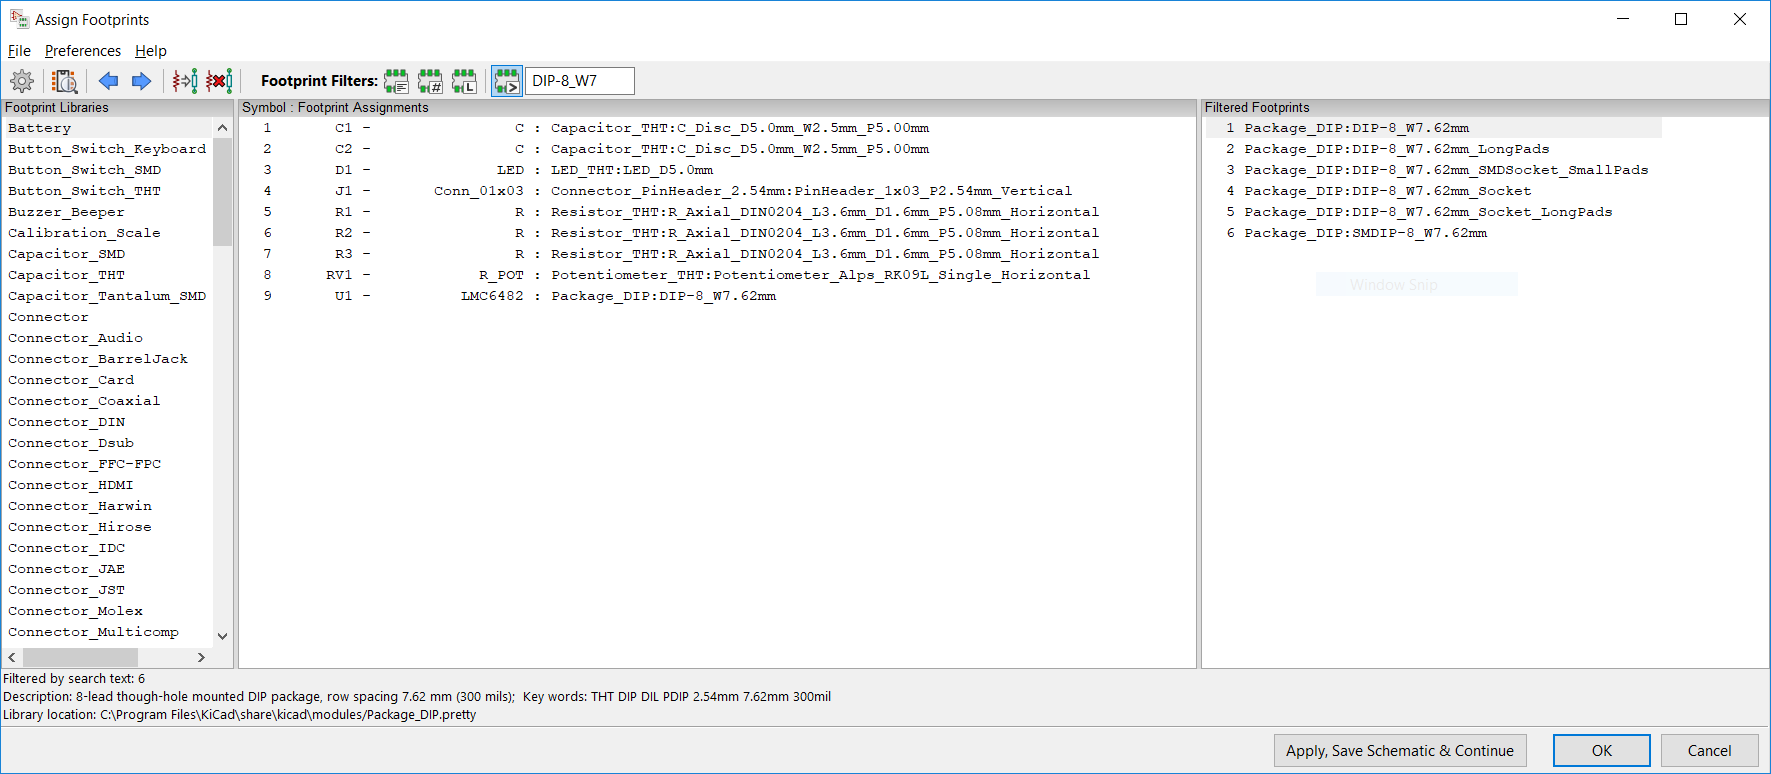
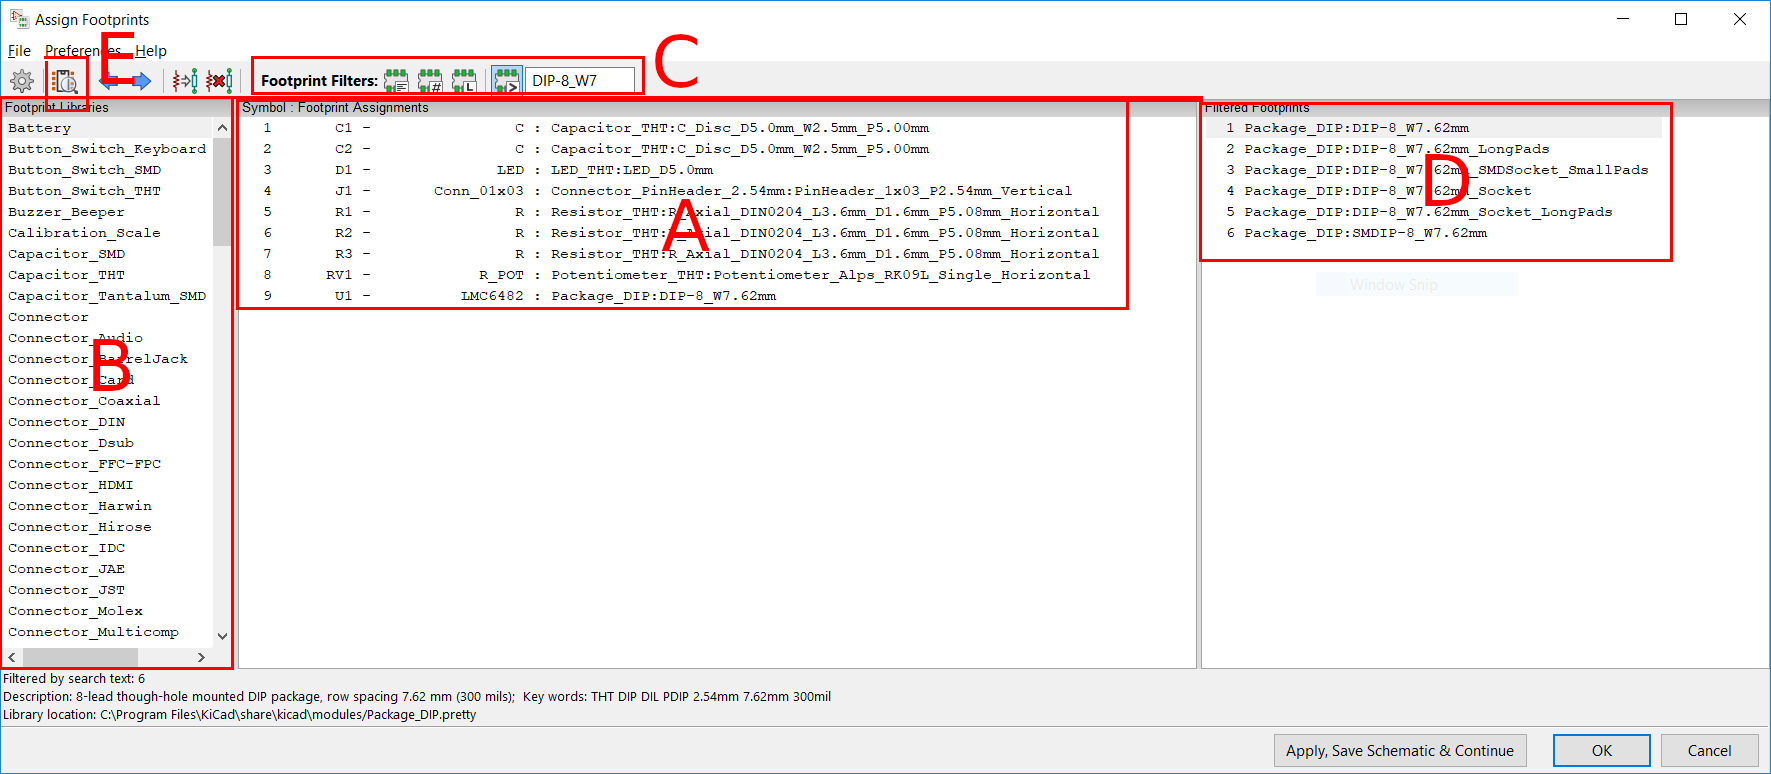
Add instructions for footprint assignment

diff --git a/labs/kicad-intro/kicad-intro.rst b/labs/kicad-intro/kicad-intro.rst
@@ -1,25 +1,15 @@
-======================
-KiCad Introduction Lab
-======================
-
-------
-Week 1
-------
-
-:authors: Kevin Zheng, Leon Wu, Jeffrey Ni
-:originally by: Kevin Zheng, Hall Chen, Olivia Hsu
-:date: 2019-09-04
-
-In this lab, we will build a printed circuit board (PCB) for the LED light
-sensor talked about during lecture. Don't feel like you need to understand
-everything; this lab is meant to be a very guided walkthrough of the
-required motions.
-
-`Back to HOPE main page <../../pcb.html>`_ 
+==================
+Intro to KiCad Lab
+==================
+:authors: Kevin Zheng, Leon Wu, Jeffrey Ni, Hall Chen, Olivia Hsu
 
 .. contents::
 .. sectnum::
 
+In this lab, we will design a printed circuit board (PCB) for an LED light
+sensor.
+
+`Back to HOPE main page <../../pcb.html>`_ 
 
 Getting Started
 ===============
@@ -131,17 +121,29 @@ we need to assign what each component actually looks like in the real world.
 Or at least, how they will look on our PCB. These representations are called
 **footprints**. 
 
-#. Tools → Assign Footprints. For each unassigned footprint, find the
-   component below and assign it. These footprints correspond to the shapes of
-   the actual parts you'll put on your PCB.
-   
-   For purposes of this exercise, you don't have to use the ones indicated
-   here. However, the footprints you assign for each symbol must be valid.
-   For example, you can't select an LED footprint that has 3 pins for the
-   utilized schematic symbol, which only has 2 pins.
+#. Go to "Tools → Assign Footprints".
 
    .. image:: assign-footprints.png
 
+#. Pick the first unassigned footprint from **A**. If you want to assign
+   multiple components with the same footprint, select multiple components
+   using SHIFT-select.
+
+#. In **B**, select the component library from which you want to select your
+   footprint. For example, for components C1 and C2, you should choose either
+   libraries "Capacitor_SMD" (surface-mount capacitors) or "Capacitor_THT"
+   (through-hole capacitors).
+
+#. Activate the footprint filters in **C**. Filter by the library "L" and the
+   number of pins "#". You can further narrow down your search by adding key
+   words in the text box to the right.
+
+#. Select the appropriate footprint in **D**. If you are unsure which
+   footprint to pick, you can click on one and press **E** to preview it.
+
+#. Repeat these steps until all footprints are assigned.
+
+#. Press "OK" to save and dismiss the window.
 
 PCB Layout
 ==========
